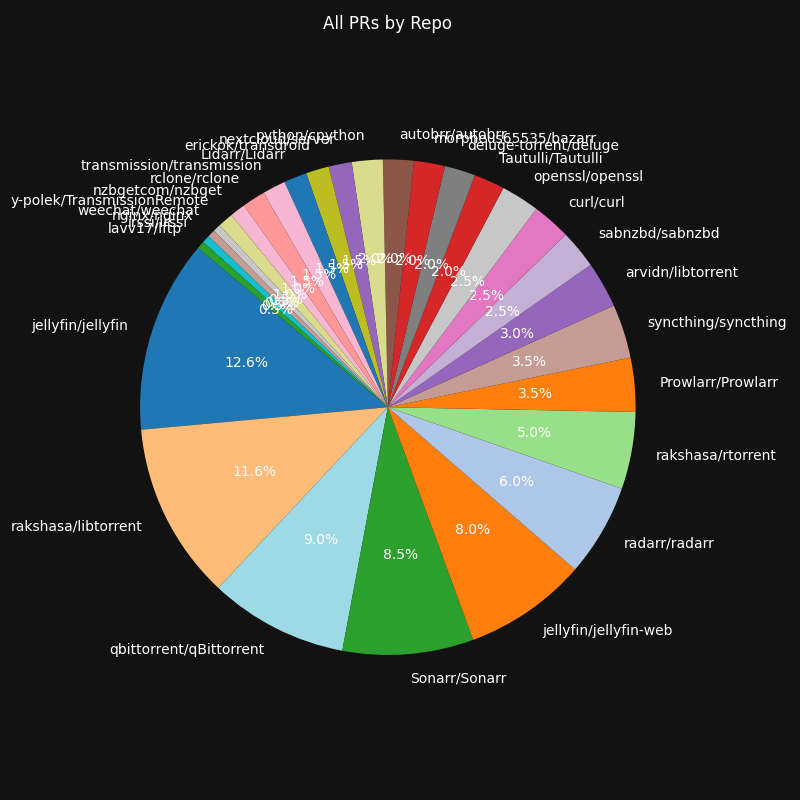
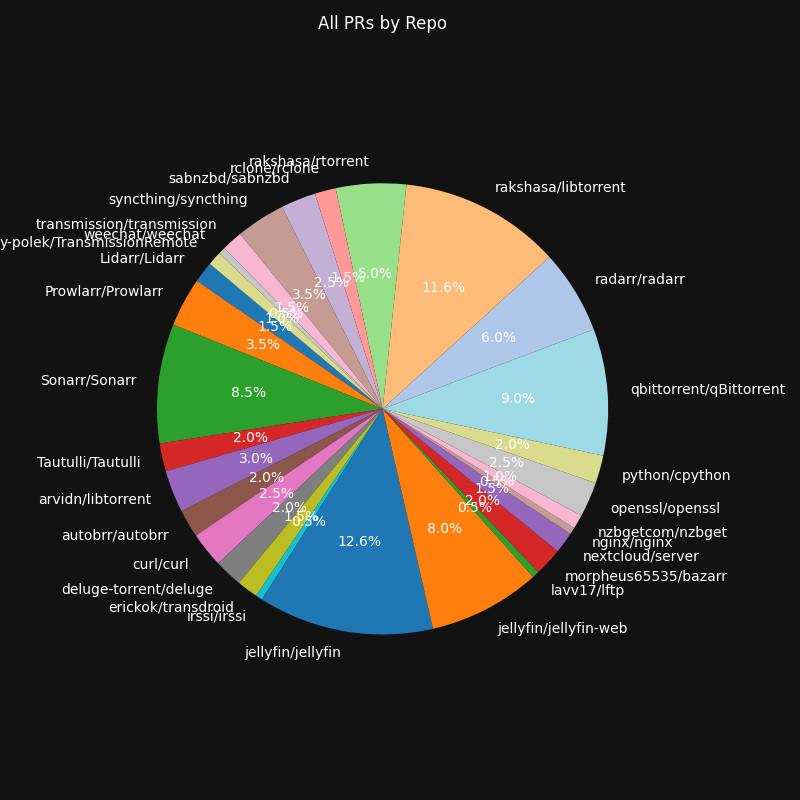
chart improvments
- improve section title
- add labels to a chart
- fix color/order on chart

diff --git a/docs/index.html b/docs/index.html
@@ -61,7 +61,7 @@
         
     
         
-            <h2>PR Order Breakdown</h2>
+            <h2>PR Order Breakdown (still unique contributors)</h2>
             <div class="row">
                 
                     <img src="pie_first_repo.png" alt="First PR">

diff --git a/make_gh_pages.py b/make_gh_pages.py
@@ -135,8 +135,8 @@ master_repo_order = repo_hits.index.tolist()
 save_pie(repo_hits, "Repos Hit (Unique Contributors)", "pie_repo_hits.png", label=True)
 save_pie(first_repo, "First PR", "pie_first_repo.png", label=False, full_repo_order=master_repo_order)
 save_pie(second_repo, "Second PR", "pie_second_repo.png", label=False, full_repo_order=master_repo_order)
-save_pie(third_plus_repo, "Third+ PR", "pie_third_plus_repo.png", label=False, full_repo_order=master_repo_order)
-save_pie(all_prs_repo_counts, "All PRs by Repo", "pie_all_prs_repo.png")
+save_pie(third_plus_repo, "Third+ PR", "pie_third_plus_repo.png", full_repo_order=master_repo_order)
+save_pie(all_prs_repo_counts, "All PRs by Repo", "pie_all_prs_repo.png", full_repo_order=master_repo_order)
 save_pie(state_counts, "PR State Distribution", "pie_state_distribution.png", use_repo_colors=False, offset=30)
 save_pie(issue_counts, "PRs With vs Without Linked Issues", "pie_linked_issues.png", use_repo_colors=False)
 
@@ -153,7 +153,7 @@ summary = f"{len(qualified_users)} accounts made PRs to at least 2 different rep
 charts = [
     {"filename": "pie_repo_hits.png", "title": "Repos Hit (Unique Contributors)"},
     {
-        "title": "PR Order Breakdown",
+        "title": "PR Order Breakdown (still unique contributors)",
         "layout": "row",
         "subcharts": [
             {"filename": "pie_first_repo.png", "title": "First PR"},
